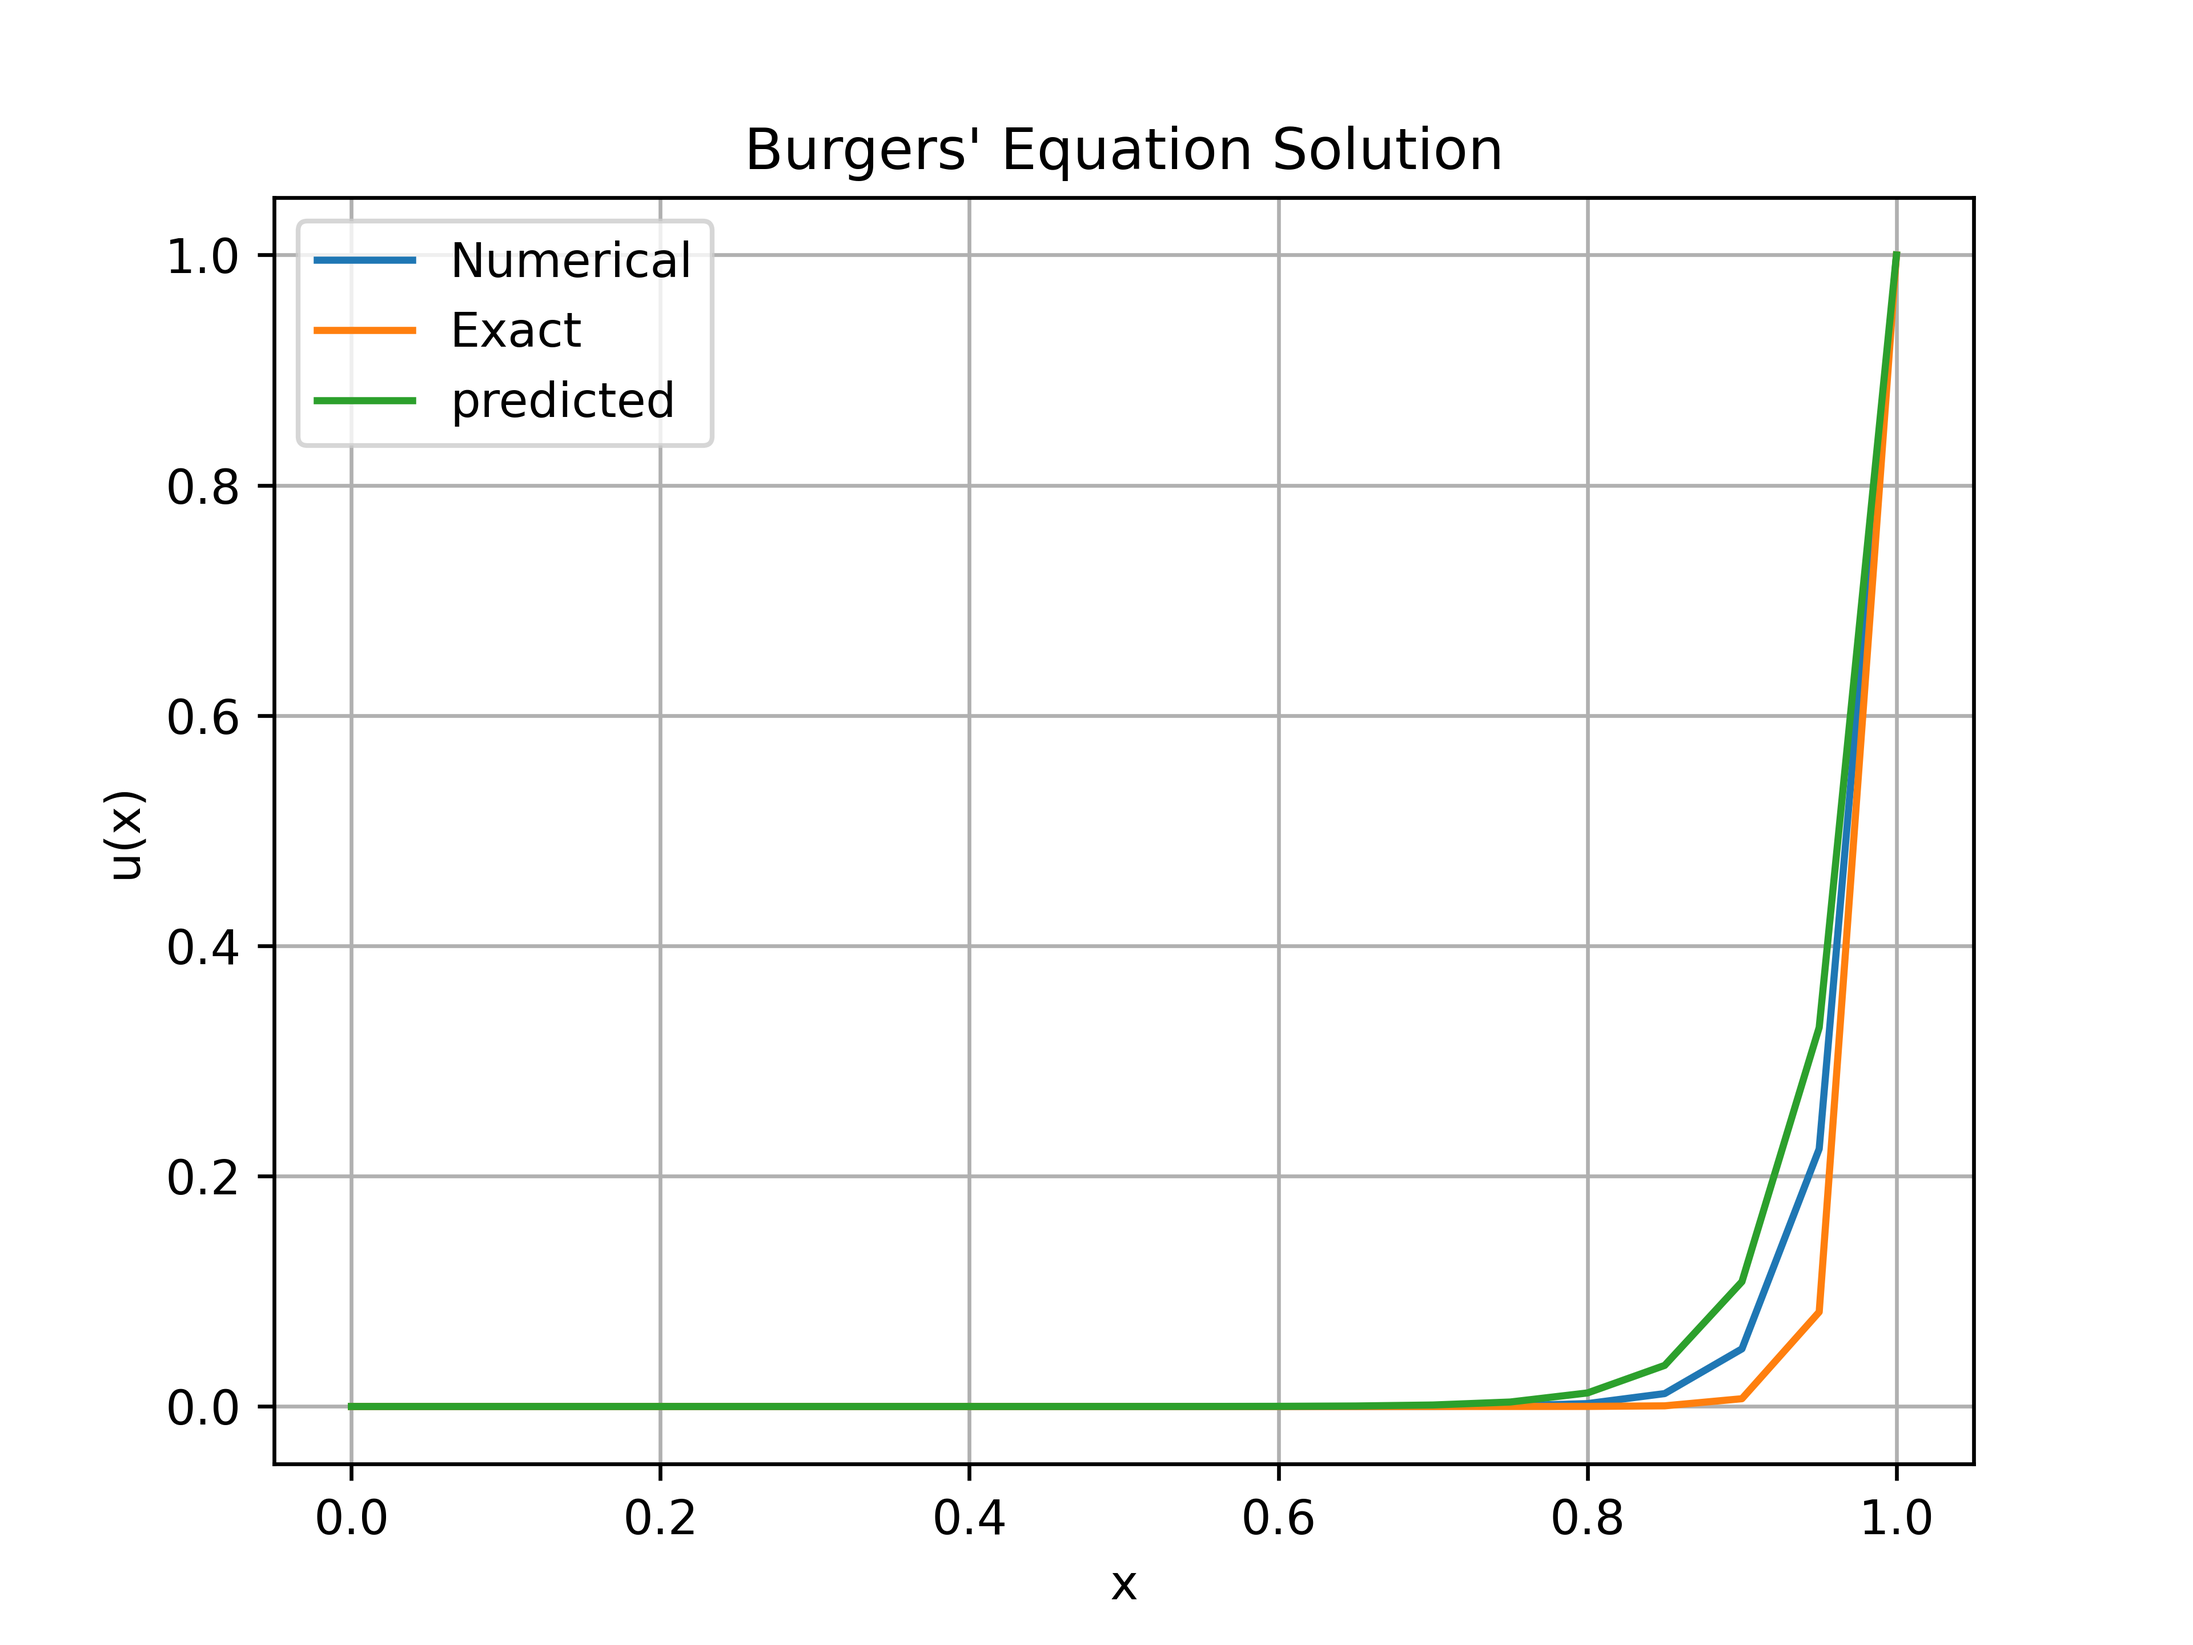
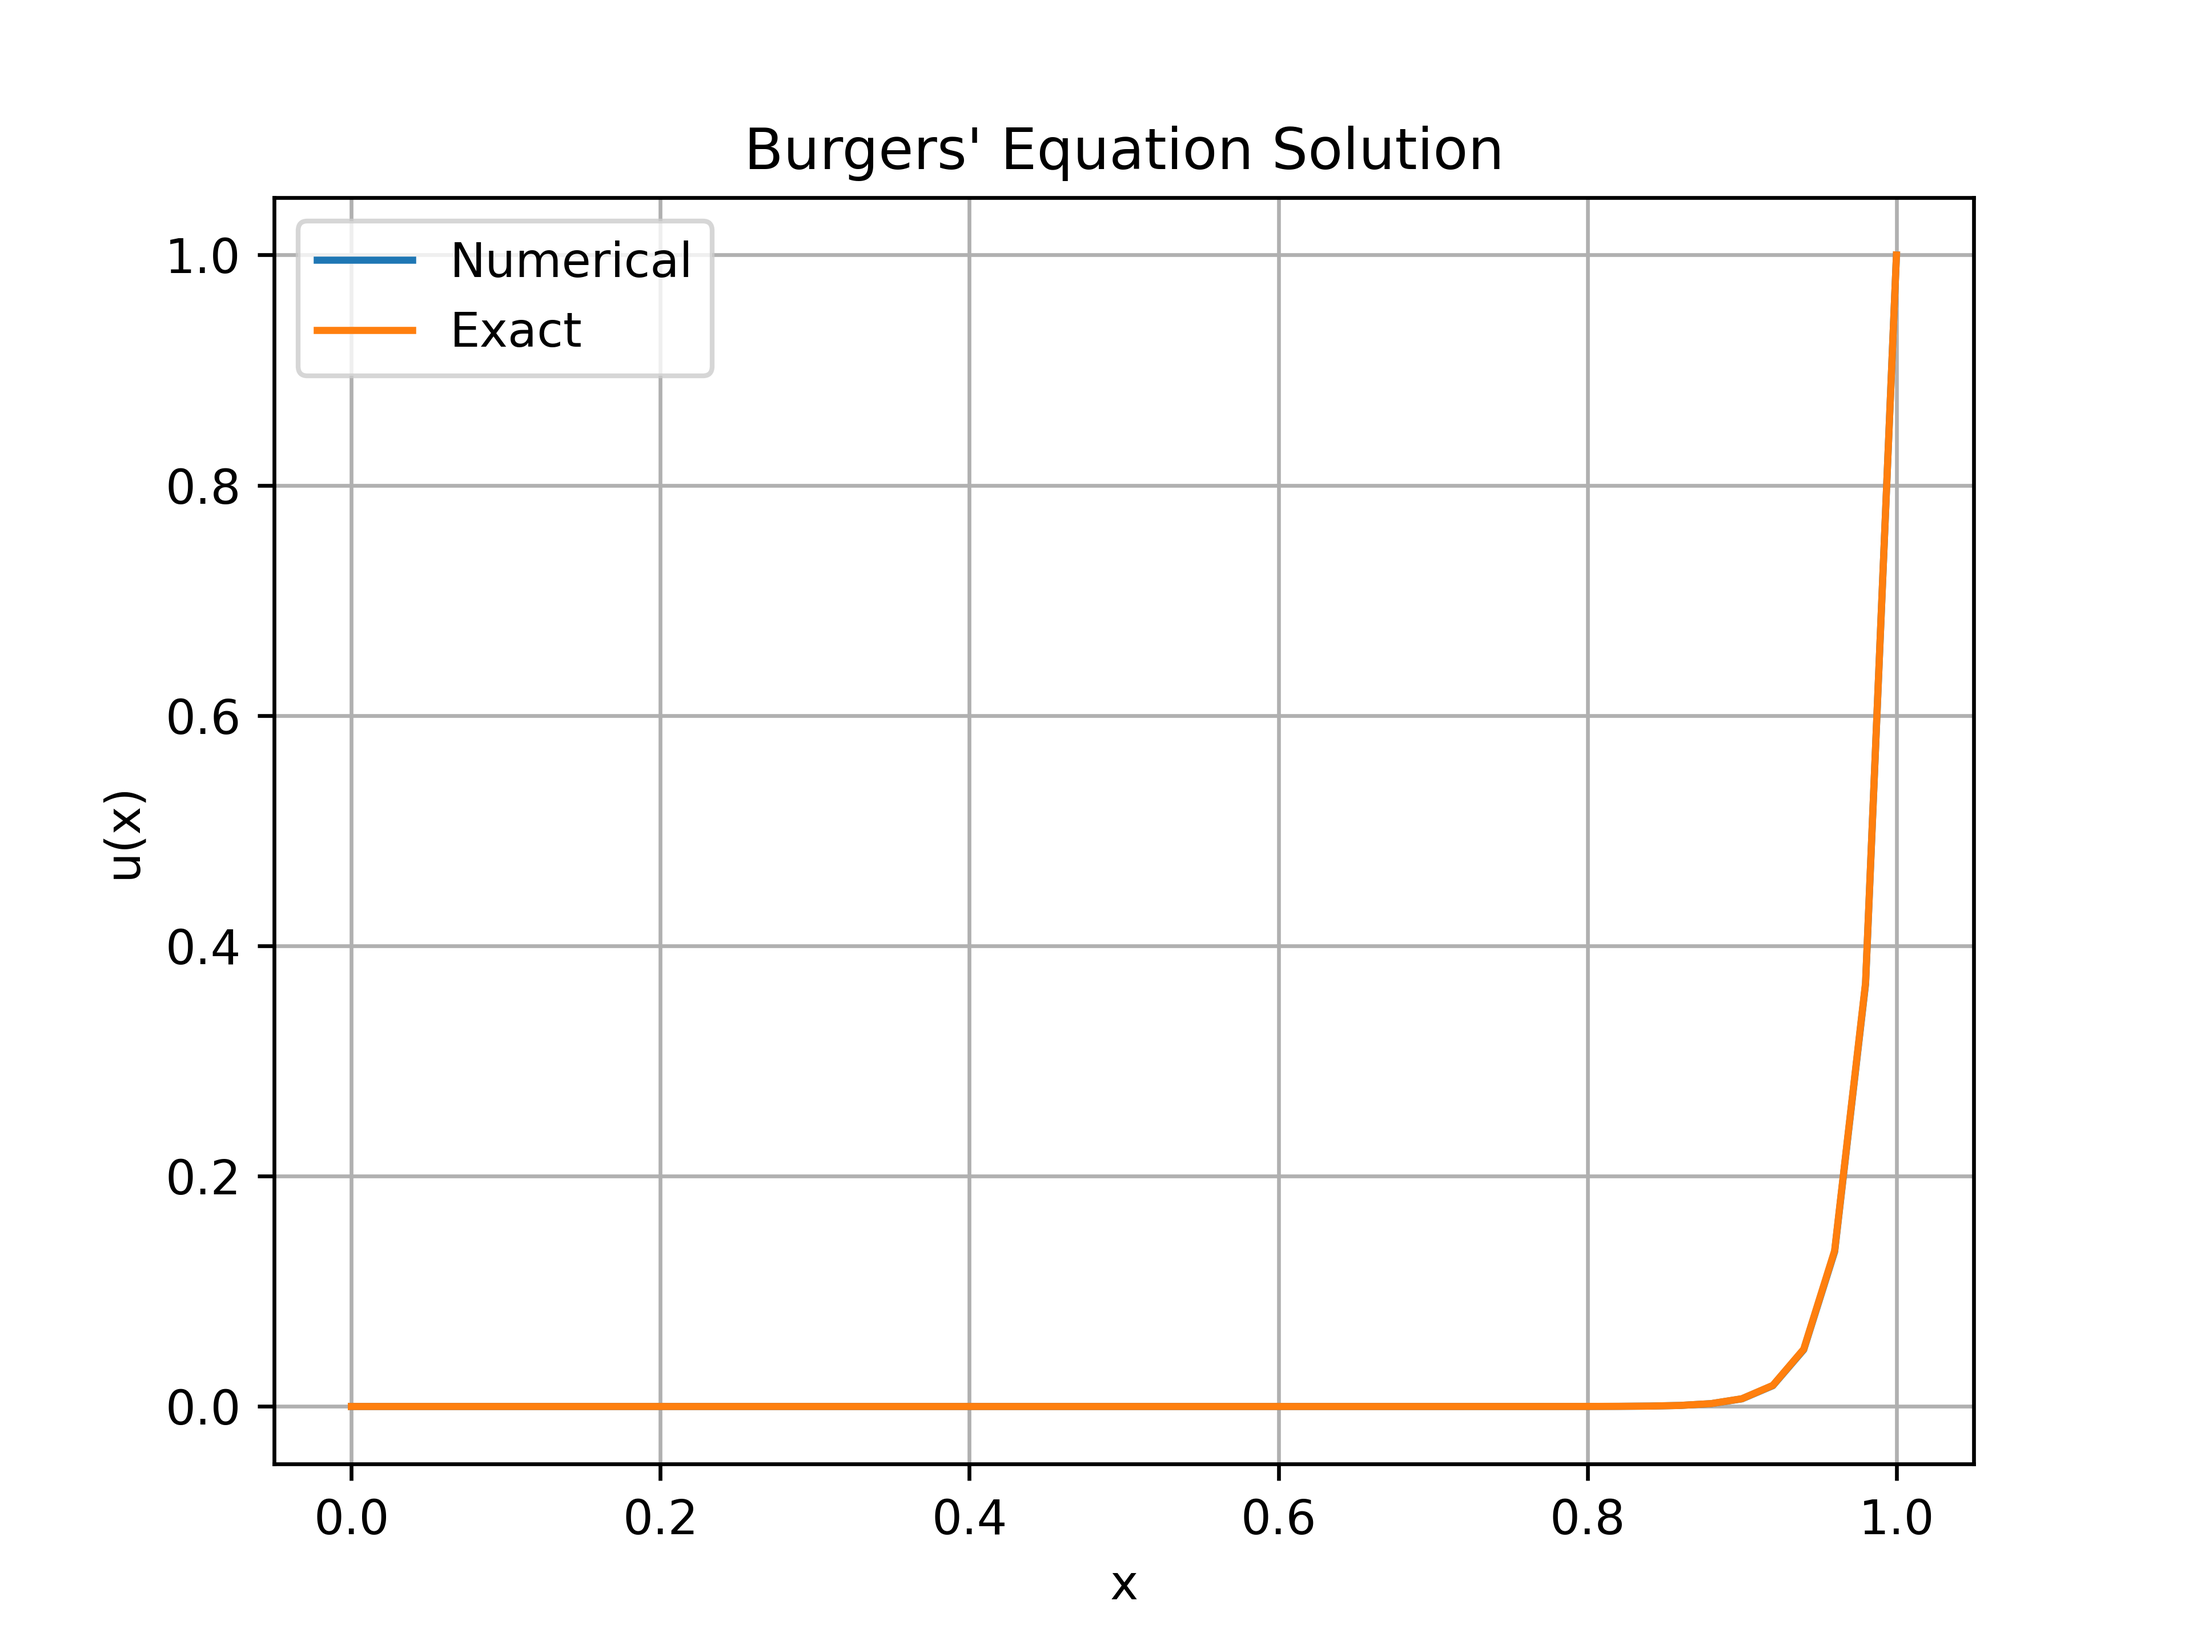
Plotted comparison of solutions

Changed region(s): [[0.1562, 0.1562, 0.875, 0.875], [0.125, 0.2188, 0.3125, 0.2812]]

diff --git a/homework-2/linear_burgers.py b/homework-2/linear_burgers.py
@@ -1,22 +1,16 @@
-from webbrowser import get
-
 import jax.numpy as jnp
 import numpy as np
 import jax
-from functools import partial
 from jax import jit
 import matplotlib.pyplot as plt
-from pyparsing import nums
 
-
-class solver(object):
+class linear_solver(object):
     def __init__(self, delta_x, delta_t, pec_num=50):
         self.pec_num = pec_num
         self.delta_x = delta_x
         self.delta_t = delta_t
         self.cfl = self.delta_t / self.delta_x
         self.r = self.delta_t / (self.pec_num * self.delta_x**2)
-        assert self.cfl**2 < 2*self.r, self.r < 0.5
 
     def solve(
             self,
@@ -99,16 +93,16 @@ def get_exact(x, Pec_num=50):
 if __name__ == "__main__":
 
     delta_t = 1e-3
-    delta_x = 1 / 20
+    delta_x = 1 / 50
     x_space = jnp.arange(0, 1+delta_x/2, delta_x)
     init = jnp.zeros_like(x_space).at[-1].set(1)
 
-    solver = solver(delta_t = delta_t, delta_x = delta_x)
-    solution = solver.solve(init, num_steps=10_000_000, scheme_num=2)
+    linear_solver = linear_solver(delta_t = delta_t, delta_x = delta_x)
+    solution = linear_solver.solve(init, num_steps=10_000_000, scheme_num=3)
 
     plt.plot(x_space, solution, label="Numerical")
     plt.plot(x_space, get_exact(x_space), label="Exact")
-    plt.plot(x_space, get_exact(x_space, Pec_num=1/(1/50+1/40)), label="predicted")
+    # plt.plot(x_space, get_exact(x_space, Pec_num=1/(1/50+delta_x**2/3*50-delta_x**3/4*50**2)), label="predicted")
     plt.xlabel("x")
     plt.ylabel("u(x)")
     plt.title("Burgers' Equation Solution")
@@ -116,5 +110,4 @@ if __name__ == "__main__":
     plt.legend()
     plt.savefig("burgers_solution.png", dpi = 600)
     plt.show()
-
 

diff --git a/homework-2/plot_effective_nu.py b/homework-2/plot_effective_nu.py
@@ -2,9 +2,6 @@ from linear_burgers import linear_solver, get_exact
 import matplotlib.pyplot as plt
 import jax.numpy as jnp
 
-
-scheme_names = ["FTCS", "1st Upwind", "2nd Upwind", "QUICK"]
-color_list = ["blue", "orange", "green", "red"]
 delta_x_list = [1/20, 1/50, 1/100]
 delta_t = 1e-3
 
@@ -15,14 +12,14 @@ for delta_x, ax in zip(delta_x_list, axes.flatten()):
     solver = linear_solver(delta_t = delta_t, delta_x = delta_x)
 
     ax.plot(x_coord, get_exact(x_coord), label="Exact", color="black")
-    for scheme_num in range(4):
-        solution = solver.solve(init, num_steps=10_000_000, scheme_num=scheme_num)
-        ax.plot(x_coord, solution, label=scheme_names[scheme_num], color=color_list[scheme_num], linestyle="--")
+    solution = solver.solve(init, num_steps=10_000_000, scheme_num=1)
+    ax.plot(x_coord, solution, label='1st Upwind', color='b', linestyle="--")
+    ax.plot(x_coord, get_exact(x_coord, Pec_num = 1 / (1/50 + delta_x/2)), label=r"Exact with $\nu_{eff}$", color="magenta", linestyle=":")
     ax.set_title(r"$\Delta x = $" + f"{delta_x}")
     ax.set_xlabel("x")
     ax.set_ylabel("u(x)") if ax == axes.flatten()[0] else None
     ax.grid()
     ax.legend()
 plt.suptitle(r"Burgers' Equation Solution at $t=10000$, with $\Delta t = 10^{-3}$")
-plt.savefig("burgers_solution_comparison.png", dpi = 600)
+plt.savefig("effective_nu_comparison.png", dpi = 600)
 plt.show()
